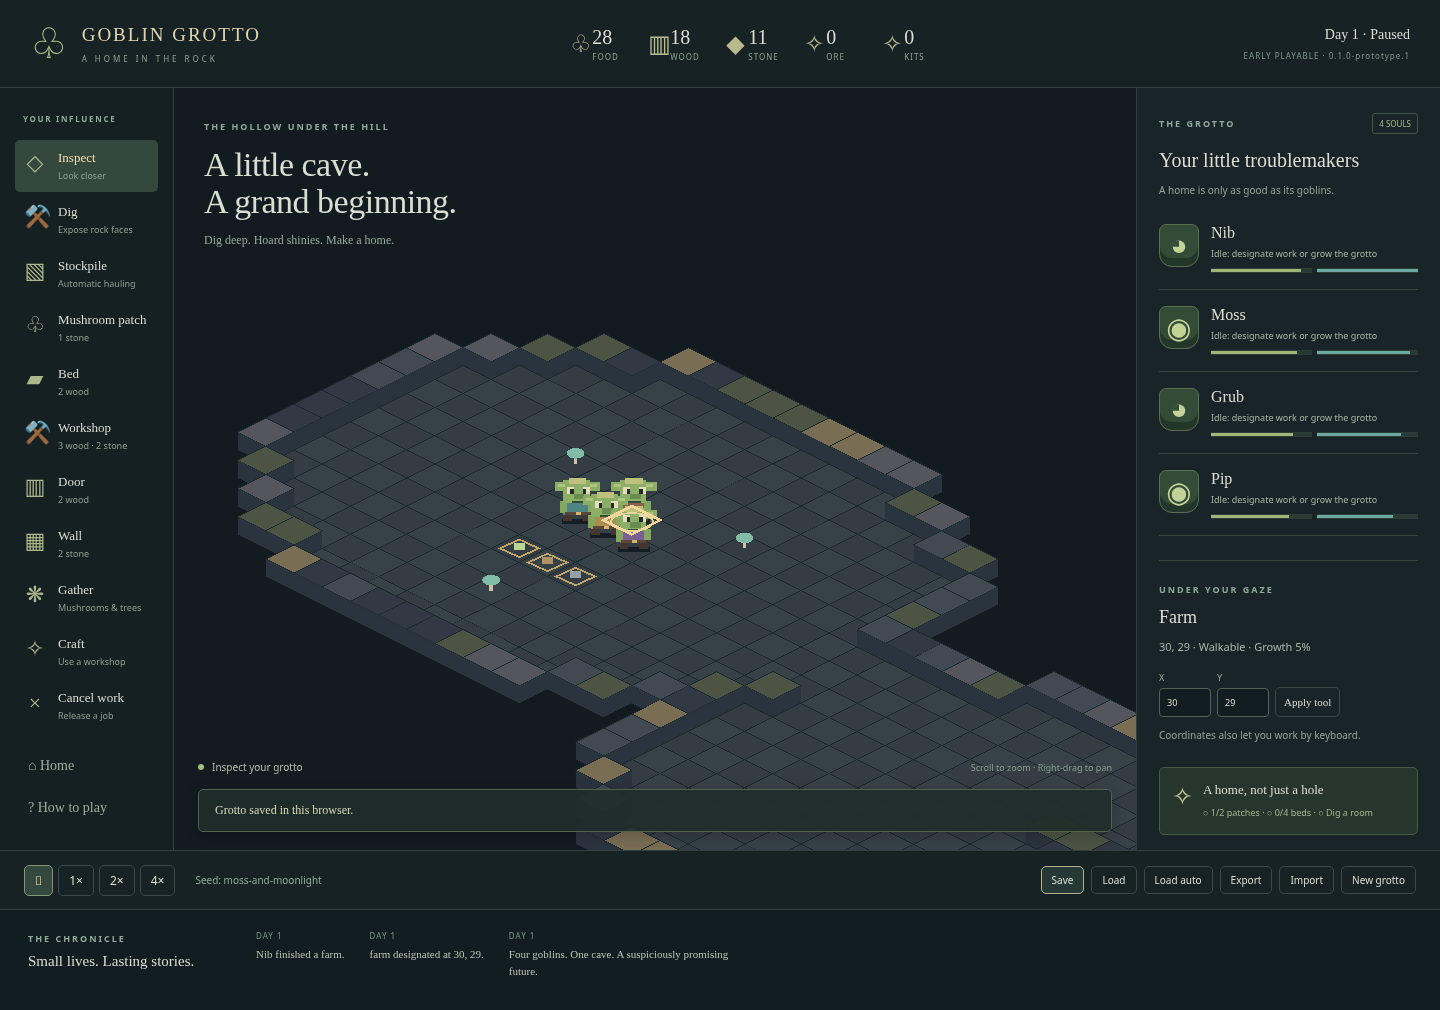
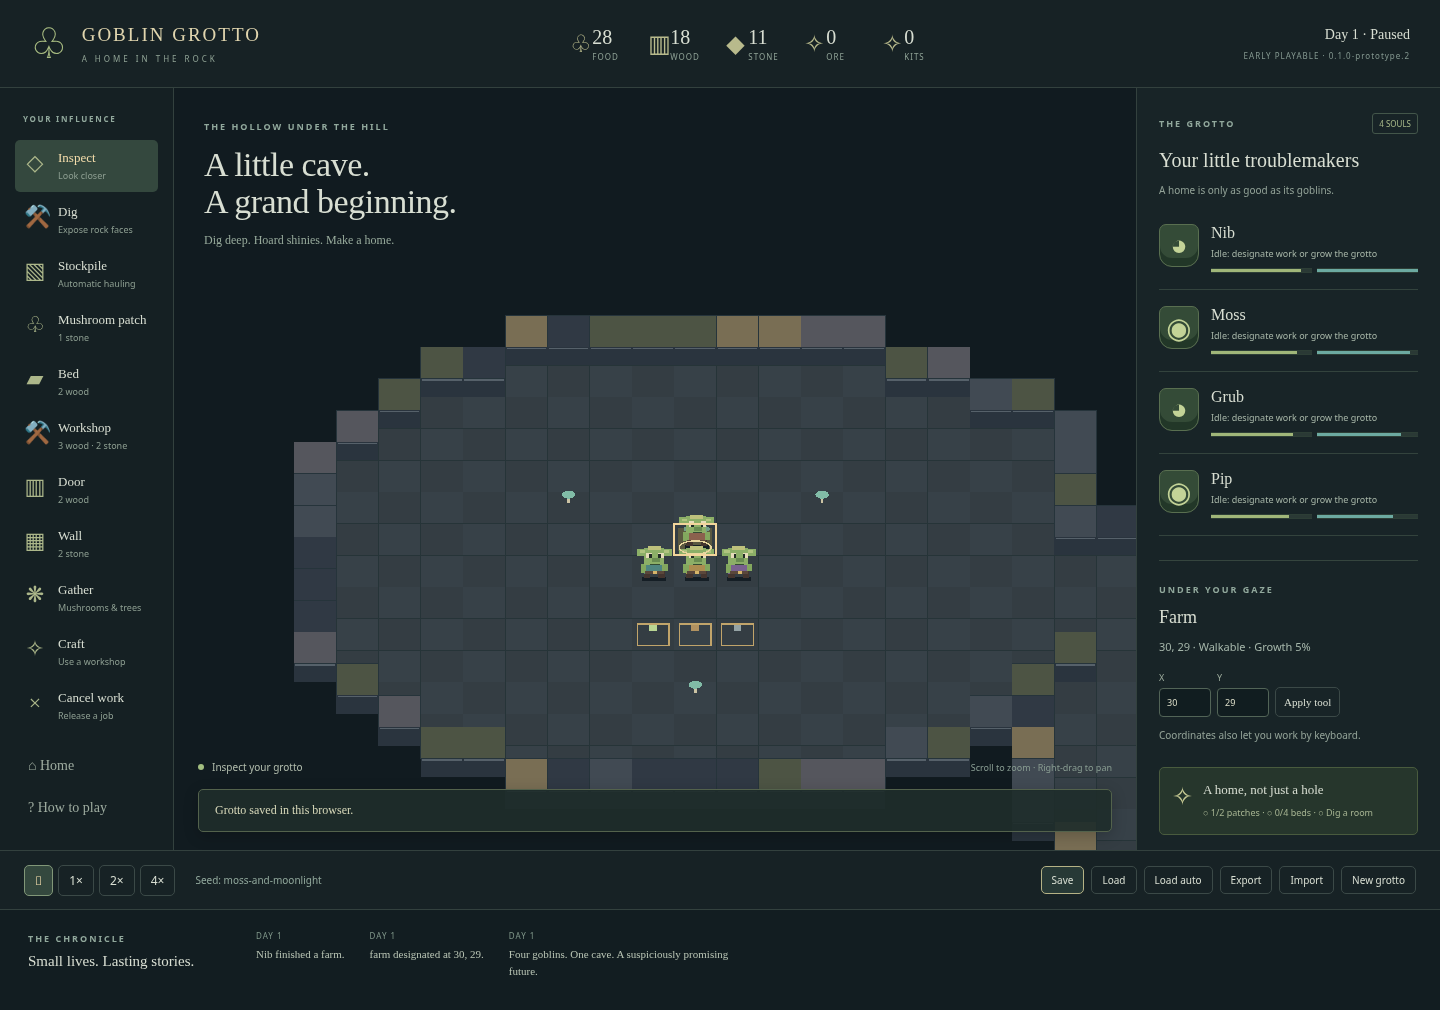
fix(render): use the requested three-quarter JRPG perspective

Changed region(s): [[0.1562, 0.3069, 0.8125, 0.8594], [0.375, 0.4297, 0.5312, 0.5832], [0.3125, 0.5218, 0.4062, 0.5832]]

diff --git a/src/render/scene.ts b/src/render/scene.ts
@@ -42,7 +42,7 @@ export class Scene {
   details = new Graphics();
   overlay = new Graphics();
   actors = new Container();
-  camera: Camera = { x: 0, y: -420, zoom: 1.6 };
+  camera: Camera = { x: 0, y: -420, zoom: 1.2 };
   selected: Position | null = null;
   hover: Position | null = null;
   private sprites: Sprite[] = [];
@@ -105,45 +105,26 @@ export class Scene {
             : (x + y) % 2
               ? 0x343d43
               : 0x374148;
-        const h = t.solid ? 10 : 0;
-        g.poly([
-          a.x,
-          a.y - h,
-          a.x + 16,
-          a.y + 8 - h,
-          a.x,
-          a.y + 16 - h,
-          a.x - 16,
-          a.y + 8 - h,
-        ])
-          .fill(color)
-          .stroke({ color: 0x19292e, width: 0.5 });
-        if (t.solid)
-          g.poly([
-            a.x - 16,
-            a.y + 8 - h,
-            a.x,
-            a.y + 16 - h,
-            a.x + 16,
-            a.y + 8 - h,
-            a.x + 16,
-            a.y + 8,
-            a.x,
-            a.y + 16,
-            a.x - 16,
-            a.y + 8,
-          ]).fill(0x2a343e);
+        // JRPG three-quarter view: axis-aligned floors, raised wall tops and
+        // vertical front faces. North/south movement stays vertical on screen.
+        if (t.solid) {
+          g.rect(a.x - 16, a.y - 14, 32, 24)
+            .fill(color)
+            .stroke({ color: 0x26343b, width: 0.5 });
+          g.rect(a.x - 16, a.y + 10, 32, 14).fill(0x2a343e);
+          g.moveTo(a.x - 15, a.y + 11)
+            .lineTo(a.x + 15, a.y + 11)
+            .stroke({ color: 0x56616a, width: 1 });
+        } else {
+          g.rect(a.x - 16, a.y, 32, 24)
+            .fill(color)
+            .stroke({ color: 0x263438, width: 0.5 });
+        }
         if (t.stockpile)
-          d.poly([
-            a.x - 11,
-            a.y + 8,
-            a.x,
-            a.y + 3,
-            a.x + 11,
-            a.y + 8,
-            a.x,
-            a.y + 13,
-          ]).stroke({ color: 0xc1a46a, width: 1 });
+          d.rect(a.x - 12, a.y + 4, 24, 16).stroke({
+            color: 0xc1a46a,
+            width: 1,
+          });
         if (t.deposit && !t.solid) {
           if (t.deposit === "wood") {
             d.rect(a.x - 2, a.y - 14, 4, 22).fill(0x786147);
@@ -164,16 +145,7 @@ export class Scene {
           d.rect(a.x - 1, a.y + 1, 9, 6).fill(0x648d83);
         }
         if (t.structure === "farm") {
-          d.poly([
-            a.x - 13,
-            a.y + 8,
-            a.x,
-            a.y + 2,
-            a.x + 13,
-            a.y + 8,
-            a.x,
-            a.y + 14,
-          ]).fill(0x5a5840);
+          d.rect(a.x - 13, a.y + 3, 26, 18).fill(0x5a5840);
           for (let i = 0; i < 3; i++) {
             d.rect(a.x - 7 + i * 7, a.y + 4, 2, 5).fill(0xc2c59c);
             d.ellipse(a.x - 6 + i * 7, a.y + 4, 3, 2).fill(
@@ -206,18 +178,12 @@ export class Scene {
       (j) => j.status === "open" || j.status === "active",
     )) {
       const a = project(j.target);
-      o.poly([
-        a.x - 13,
-        a.y + 8,
-        a.x,
-        a.y + 2,
-        a.x + 13,
-        a.y + 8,
-        a.x,
-        a.y + 14,
-      ]).stroke({ color: j.kind === "dig" ? 0xe1b66a : 0x7dc8be, width: 1 });
+      o.rect(a.x - 13, a.y + 3, 26, 18).stroke({
+        color: j.kind === "dig" ? 0xe1b66a : 0x7dc8be,
+        width: 1,
+      });
       if (j.progress)
-        o.rect(a.x - 8, a.y + 15, Math.min(16, j.progress / 3), 2).fill(
+        o.rect(a.x - 8, a.y + 22, Math.min(16, j.progress / 3), 2).fill(
           0xe1b66a,
         );
     }
@@ -233,31 +199,22 @@ export class Scene {
       const a = project(g.position);
       sprite.position.set(
         a.x,
-        a.y + 8 + (g.job ? Math.floor(s.tick / 3) % 2 : 0),
+        a.y + 17 + (g.job ? Math.floor(s.tick / 3) % 2 : 0),
       );
-      sprite.zIndex = g.position.x + g.position.y;
+      sprite.zIndex = g.position.y * s.width + g.position.x;
       sprite.alpha = g.activity === "Sleeping" ? 0.6 : 1;
       if (
         this.selected &&
         g.position.x === this.selected.x &&
         g.position.y === this.selected.y
       )
-        o.ellipse(a.x, a.y + 9, 12, 5).stroke({ color: 0xe9d69e, width: 1 });
+        o.ellipse(a.x, a.y + 18, 12, 5).stroke({ color: 0xe9d69e, width: 1 });
     });
     this.actors.sortableChildren = true;
     for (const p of [this.hover, this.selected])
       if (p) {
         const a = project(p);
-        o.poly([
-          a.x - 16,
-          a.y + 8,
-          a.x,
-          a.y,
-          a.x + 16,
-          a.y + 8,
-          a.x,
-          a.y + 16,
-        ]).stroke({
+        o.rect(a.x - 16, a.y, 32, 24).stroke({
           color: p === this.selected ? 0xf3d59b : 0xa5c9bb,
           width: 1.5,
         });

diff --git a/src/main.ts b/src/main.ts
@@ -28,7 +28,7 @@ let selected: Position = position(30, 30);
 let ready = false;
 const app = document.querySelector<HTMLDivElement>("#app")!;
 app.innerHTML = `
-<header><a class="brand" href="./"><span class="sigil">♧</span><span>GOBLIN GROTTO<small>A HOME IN THE ROCK</small></span></a><div id="resources"></div><div class="time"><span id="day"></span><small>EARLY PLAYABLE · 0.1.0-prototype.1</small></div></header>
+<header><a class="brand" href="./"><span class="sigil">♧</span><span>GOBLIN GROTTO<small>A HOME IN THE ROCK</small></span></a><div id="resources"></div><div class="time"><span id="day"></span><small>EARLY PLAYABLE · 0.1.0-prototype.2</small></div></header>
 <div class="workspace"><nav aria-label="Grotto tools"><span class="eyebrow">YOUR INFLUENCE</span><div id="tools"></div><div class="nav-bottom"><button id="home">⌂ <span>Home</span></button><button id="help-button">? <span>How to play</span></button></div></nav>
 <main><div class="map-heading"><span class="eyebrow">THE HOLLOW UNDER THE HILL</span><h1>A little cave.<br>A grand beginning.</h1><p>Dig deep. Hoard shinies. Make a home.</p></div><div id="map"></div><div class="map-caption"><span class="live-dot"></span><span id="mode">Inspect your grotto</span><span class="map-hint">Scroll to zoom · Right-drag to pan</span></div><div id="notice" role="status" aria-live="polite">Welcome, Spirit. Plant two mushroom patches, build beds, then carve out a home.</div></main>
 <aside><div class="aside-title"><span class="eyebrow">THE GROTTO</span><span class="badge">4 SOULS</span></div><h2>Your little troublemakers</h2><p class="muted">A home is only as good as its goblins.</p><div id="goblins"></div><section class="inspector"><span class="eyebrow">UNDER YOUR GAZE</span><h3 id="tile-name">Cavern floor</h3><div id="inspection"></div><form id="tile-form"><label>X <input id="tile-x" type="number" min="0" max="63" value="30"></label><label>Y <input id="tile-y" type="number" min="0" max="63" value="30"></label><button>Apply tool</button></form><p class="muted">Coordinates also let you work by keyboard.</p></section><section class="goal"><span>✧</span><div><strong>A home, not just a hole</strong><p id="goals">Plant patches · Make beds · Dig a room</p></div></section></aside></div>

diff --git a/tests/projection.test.ts b/tests/projection.test.ts
@@ -12,3 +12,11 @@ it("projection round trips tile centres including negative coordinates and zoom"
         expect(p).toEqual({ x, y, z: 0 });
       }
 });
+it("JRPG cardinal directions stay aligned with the screen axes", () => {
+  const p = project({ x: 5, y: 7, z: 0 });
+  expect(project({ x: 6, y: 7, z: 0 })).toEqual({ x: p.x + 32, y: p.y });
+  expect(project({ x: 5, y: 8, z: 0 })).toEqual({ x: p.x, y: p.y + 24 });
+  expect(unproject(p.x - 16, p.y)).toEqual({ x: 5, y: 7, z: 0 });
+  expect(unproject(p.x + 15.99, p.y + 23.99)).toEqual({ x: 5, y: 7, z: 0 });
+  expect(unproject(p.x + 16, p.y + 24)).toEqual({ x: 6, y: 8, z: 0 });
+});

diff --git a/src/render/projection.ts b/src/render/projection.ts
@@ -5,12 +5,13 @@ export interface Camera {
   zoom: number;
 }
 export function project(p: Position): { x: number; y: number } {
-  return { x: (p.x - p.y) * 16, y: (p.x + p.y) * 8 };
+  // Rectangular floors viewed from above, with upright front-facing sprites.
+  return { x: p.x * 32 + 16, y: p.y * 24 };
 }
 export function unproject(x: number, y: number): Position {
   return {
-    x: Math.floor((x / 16 + y / 8) / 2),
-    y: Math.floor((y / 8 - x / 16) / 2),
+    x: Math.floor(x / 32),
+    y: Math.floor(y / 24),
     z: 0,
   };
 }

diff --git a/docs/adr/0002-projection.md b/docs/adr/0002-projection.md
@@ -1,16 +1,21 @@
-# 0002 — Fixed isometric view for the prototype (GG-013)
+# 0002 — Fixed three-quarter JRPG view (GG-013)
 
-Compared 64×32 isometric floors with JRPG oblique rectangular floors using 32×32
-actors, wall overlaps, an item and floor picking. Reproduce at
-`/projection-study.html`; the browser test checks both inverse tile picks.
-See [comparison](../screenshots/projection-study.png).
+**Decision updated by owner direction:** use a three-quarter JRPG presentation.
+The original implementation chose isometric after comparing two scenes. That
+choice did not match the intended art direction and is superseded here.
 
-Choose isometric: the cave reads as a spatial home, corners and tunnels are clear,
-and the silhouette remains readable at small sizes. Oblique makes click mapping
-simpler and offers more floor area, but looks flatter and walls cover more of the
-actor. The cost of isometric is depth sorting and foreground occlusion; GG-018
-remains open until a reveal mode and correct interleaving are verified.
+Floors are rectangular, 32×24 screen units, on a square logical grid. East/west
+movement is horizontal and north/south movement is vertical. Wall tops are raised
+14 pixels with vertical front faces; upright 32×32 sprites show characters from
+the front and above. Camera pan/zoom never rotates the world into a diamond.
 
-Runtime floors are 32×16 logical screen units scaled by the camera; 32×32 goblins
-are deliberately oversized and expressive. Projection is isolated from square-grid
-simulation. Production atlas creation still waits for GG-022 and GG-023.
+This approach provides familiar JRPG room layouts and direct tile picking. It
+trades the diamond view's diagonal depth cues for clear floor/wall layering.
+Actor depth follows the logical row, with a stable column tie-break. Full
+wall/actor interleaving and reveal behavior still belong to GG-018.
+
+The historical comparison at `/projection-study.html` remains an experiment,
+not a selection of the isometric option. See the current
+[in-game screenshot](../screenshots/prototype.png) for the chosen view.
+Projection remains isolated from simulation and saves. Production atlas creation
+still waits for GG-022/GG-023, using this JRPG perspective as the requirement.

diff --git a/docs/PROTOTYPE.md b/docs/PROTOTYPE.md
@@ -1,7 +1,7 @@
-# 0.1.0-prototype.1 — verification and handoff
+# 0.1.0-prototype.2 — verification and handoff
 
 The first local playable prototype is implemented on `feat/playable-prototype`.
-It is not the full v0.1 release. Checkboxes in this change represent verified
+It is not the full v0.1 release. The current fixed three-quarter JRPG renderer supersedes the initial isometric presentation. Checkboxes in this change represent verified
 implementation and become completed plan records on merge. No release tag exists. An owner-private [hosted preview](https://goblin-grotto-prototype.breezyeft133.chatgpt.site) is now deployed through Sites; this is not a public milestone release.
 
 ## What to try
@@ -16,7 +16,7 @@ uses a stored kit before falling back to two raw wood.
 
 - `npm run typecheck`: strict TypeScript, including browser and simulation tests.
 - `npm run lint` and `npm run format:check`: Biome checks.
-- `npm test`: 13 headless tests in four files. Includes 1,000 seeded starts;
+- `npm test`: 14 headless tests in four files. Includes 1,000 seeded starts;
   a 24,000-tick colony run; three further 16,000-tick runs with save validation
   every 200 ticks; item, reservation, hunger, construction/refund and craft/use
   invariants; snapshot replay; exact clock steps at several render frequencies;

diff --git a/PLAN.md b/PLAN.md
@@ -10,9 +10,9 @@
 **Repository:** New GitHub repository; this document is intended to be its planning source of truth  
 **Planning rule:** Check off a task only when its acceptance criteria are met and its commit is merged. Update this plan whenever scope or architecture changes.
 
-### Prototype implementation note — 0.1.0-prototype.1
+### Prototype implementation note — 0.1.0-prototype.2
 
-The first playable local colony slice is implemented and verified. Checkmarks in
+The first playable colony slice is implemented and verified. The current presentation uses the owner-requested fixed three-quarter JRPG view, with rectangular floors and raised front wall faces (GG-013/GG-015/GG-017); it supersedes the initial isometric choice. Checkmarks in
 this change identify criteria verified on this branch and become completion
 records when merged, as required above. No milestone release gate or tag is claimed.
 See `docs/PROTOTYPE.md` for evidence and remaining gaps. M01–M04 were developed as

diff --git a/README.md b/README.md
@@ -8,7 +8,7 @@ home beneath the hill. The Brothers Grimm meet slapstick.
 
 ## Play the prototype
 
-**Current build: `0.1.0-prototype.1`**, an early local playable colony slice.
+**Current build: `0.1.0-prototype.2`**, an early local playable colony slice.
 This is not the completed v0.1 milestone or a public release.
 
 A [private hosted preview](https://goblin-grotto-prototype.breezyeft133.chatgpt.site) is available to the owner through ChatGPT sign-in.
@@ -86,7 +86,7 @@ bounded and focused on what goblins can experience.
 
 ## Development
 
-Strict TypeScript + Vite, PixiJS WebGL, semantic HTML/CSS, a pure 10 Hz simulation,
+Strict TypeScript + Vite, PixiJS WebGL with a fixed three-quarter JRPG view, semantic HTML/CSS, a pure 10 Hz simulation,
 seeded serializable RNG, typed commands/events, and versioned IndexedDB saves.
 Rendering never decides gameplay outcomes.
 

diff --git a/docs/ART_BIBLE.md b/docs/ART_BIBLE.md
@@ -1,7 +1,8 @@
 # Prototype art reference
 
-Fixed diamond floors, 2:1 width/height, square gameplay grid; no camera rotation.
-The [projection comparison](screenshots/projection-study.png) records the choice.
+Fixed three-quarter JRPG view: rectangular 32×24 floors and upright 32×32 actors,
+raised wall tops with vertical front faces, square gameplay grid; no camera rotation.
+The [projection comparison](screenshots/projection-study.png) records the historical experiment; ADR 0002 records the owner-corrected JRPG choice.
 Goblin sprites are original 32×32 pixel drawings in `src/render/scene.ts`, with
 feet at approximately (16,29), nearest-neighbour sampling, olive skin, warm coats,
 and teal mushrooms against blue-grey stone. See [in-game reference](screenshots/prototype.png).

diff --git a/CHANGELOG.md b/CHANGELOG.md
@@ -6,6 +6,12 @@ This project uses milestone versions described in [PLAN.md](PLAN.md). Entries re
 
 ## [Unreleased]
 
+### 0.1.0-prototype.2 — three-quarter JRPG perspective
+
+#### Changed
+
+- Corrected GG-013/GG-015/GG-017 presentation to the requested three-quarter JRPG view: rectangular floor tiles, raised walls, upright sprites and row-based depth sorting. Updated picking, overlays, projection regression tests and the projection ADR. Simulation coordinates and saves retain their existing format.
+
 ### 0.1.0-prototype.1 — playable local prototype
 
 Unreleased prerelease build; no public milestone tag or release is claimed.
